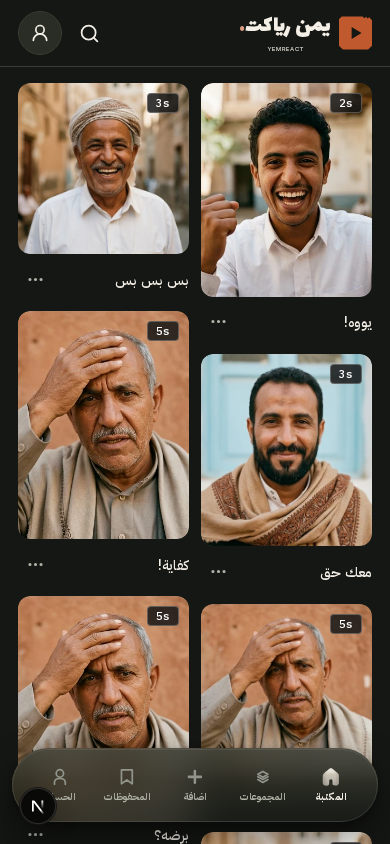
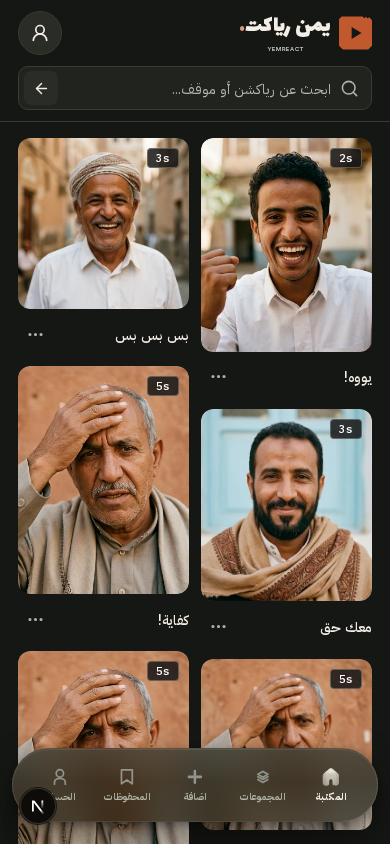
feat(search): DECISION-51 — البحث حالة من المكتبة (?q=) لا صفحة مستقلة
- /search يوجّه إلى /library مع الحفاظ على q (البند الاحتياطي الأول)
- noindex,follow لأي رابط فيه q — حماية النطاق من سيناريو Giphy (البند الثاني)
- DECISION-I10: حقل 44px بعرض 420–480px على الحاسوب، وحقل كامل في هيدر الجوال
  بدل النافذة المنبثقة، والنص «ابحث عن رياكشن أو موقف...» — بلا فلاتر في v1
- P-14: اسم الشخص يدخل نطاق البحث مع الاسم والجملة والوصف والكلمات المفتاحية
- سكربت تحقق آلي verification/decision-51-search.cjs (12/12) وتحديث اختبارات التوجيهات

diff --git a/src/components/Header.tsx b/src/components/Header.tsx
@@ -160,7 +160,7 @@ export function Header({ googleAuthOrigin = '' }: { googleAuthOrigin?: string })
   const app = useApp();
   const [accountPopover, setAccountPopover] = useState(false);
   const [accountSheet, setAccountSheet] = useState(false);
-  const [searchOpen, setSearchOpen] = useState(false);
+  const [searchFocus, setSearchFocus] = useState(false);
   const [query, setQuery] = useState('');
   const [hiddenOnScroll, setHiddenOnScroll] = useState(false);
   const [embedded, setEmbedded] = useState(false);
@@ -173,7 +173,7 @@ export function Header({ googleAuthOrigin = '' }: { googleAuthOrigin?: string })
   useEffect(() => {
     setAccountPopover(false);
     setAccountSheet(false);
-    setSearchOpen(false);
+    setSearchFocus(false);
     setHiddenOnScroll(false);
     const syncQuery = () =>
       setQuery(
@@ -212,7 +212,7 @@ export function Header({ googleAuthOrigin = '' }: { googleAuthOrigin?: string })
     const closeOnResize = () => {
       setAccountPopover(false);
       setAccountSheet(false);
-      setSearchOpen(false);
+      setSearchFocus(false);
       setHiddenOnScroll(false);
     };
     breakpoint.addEventListener('change', closeOnResize);
@@ -231,8 +231,11 @@ export function Header({ googleAuthOrigin = '' }: { googleAuthOrigin?: string })
       if (breakpoint.matches)
         document.querySelector<HTMLInputElement>('#desktop-library-search')?.focus();
       else {
+        // الحقل نفسه داخل الهيدر على الجوال: نُظهر الهيدر إن كان مخفيًا ثم نركّز فيه.
         setHiddenOnScroll(false);
-        setSearchOpen(true);
+        requestAnimationFrame(() =>
+          document.querySelector<HTMLInputElement>('#mobile-library-search')?.focus(),
+        );
       }
     };
     window.addEventListener('keydown', shortcut);
@@ -255,7 +258,7 @@ export function Header({ googleAuthOrigin = '' }: { googleAuthOrigin?: string })
           window.matchMedia('(prefers-reduced-motion: reduce)').matches ||
           app.reduced ||
           accountSheet ||
-          searchOpen ||
+          searchFocus ||
           document.querySelector('dialog[open]')
         ) {
           previous = y;
@@ -276,11 +279,10 @@ export function Header({ googleAuthOrigin = '' }: { googleAuthOrigin?: string })
       window.removeEventListener('scroll', onScroll);
       if (frame) window.cancelAnimationFrame(frame);
     };
-  }, [app.reduced, accountSheet, searchOpen]);
+  }, [app.reduced, accountSheet, searchFocus]);
 
   function submitSearch(event: FormEvent<HTMLFormElement>) {
     event.preventDefault();
-    setSearchOpen(false);
     const term = query.trim();
     router.push(term ? `/library?q=${encodeURIComponent(term)}` : '/library');
   }
@@ -334,7 +336,7 @@ export function Header({ googleAuthOrigin = '' }: { googleAuthOrigin?: string })
               onSubmit={submitSearch}
             >
               <label className="sr-only" htmlFor="desktop-library-search">
-                ابحث في المكتبة
+                ابحث عن رياكشن أو موقف
               </label>
               <input
                 id="desktop-library-search"
@@ -342,26 +344,13 @@ export function Header({ googleAuthOrigin = '' }: { googleAuthOrigin?: string })
                 name="q"
                 value={query}
                 onChange={(event) => setQuery(event.target.value)}
-                placeholder="ابحث في المكتبة"
+                placeholder="ابحث عن رياكشن أو موقف..."
                 autoComplete="off"
               />
-              <button type="submit" aria-label="تنفيذ البحث" title="ابحث في المكتبة">
+              <button type="submit" aria-label="تنفيذ البحث" title="ابحث عن رياكشن أو موقف">
                 <Search size={18} aria-hidden="true" />
               </button>
             </form>
-            <button
-              type="button"
-              className="icon-btn mobile-search-trigger"
-              aria-label="البحث"
-              aria-haspopup="dialog"
-              aria-expanded={searchOpen}
-              onClick={() => {
-                setHiddenOnScroll(false);
-                setSearchOpen(true);
-              }}
-            >
-              <Search size={21} aria-hidden="true" />
-            </button>
             <UploadQuickAction />
             <div
               className="header-account"
@@ -404,6 +393,34 @@ export function Header({ googleAuthOrigin = '' }: { googleAuthOrigin?: string })
             </div>
           </div>
         </div>
+        {/* DECISION-I10: على الجوال الحقل كاملًا داخل الهيدر — بلا نافذة ولا زر مُطلق */}
+        <div className="container header-search-row">
+          <form
+            className="mobile-library-search"
+            role="search"
+            aria-label="بحث في المكتبة"
+            onSubmit={submitSearch}
+          >
+            <label className="sr-only" htmlFor="mobile-library-search">
+              ابحث عن رياكشن أو موقف
+            </label>
+            <Search size={19} aria-hidden="true" />
+            <input
+              id="mobile-library-search"
+              type="search"
+              name="q"
+              value={query}
+              onChange={(event) => setQuery(event.target.value)}
+              onFocus={() => setSearchFocus(true)}
+              onBlur={() => setSearchFocus(false)}
+              placeholder="ابحث عن رياكشن أو موقف..."
+              autoComplete="off"
+            />
+            <button type="submit" aria-label="تنفيذ البحث">
+              <ArrowLeft size={17} aria-hidden="true" />
+            </button>
+          </form>
+        </div>
       </header>
 
       {/* الشريط الزجاجي العائم: المسارات الأربعة روابط، و«الحساب» يفتح قائمة الحساب */}
@@ -415,32 +432,6 @@ export function Header({ googleAuthOrigin = '' }: { googleAuthOrigin?: string })
           googleAuthOrigin={googleAuthOrigin}
           embedded={embedded}
         />
-      </Modal>
-      <Modal open={searchOpen} onClose={() => setSearchOpen(false)} title="البحث" sheet>
-        <form
-          className="mobile-library-search"
-          role="search"
-          aria-label="بحث في المكتبة"
-          onSubmit={submitSearch}
-        >
-          <label htmlFor="mobile-library-search">ابحث في المكتبة</label>
-          <div>
-            <Search size={19} aria-hidden="true" />
-            <input
-              id="mobile-library-search"
-              type="search"
-              name="q"
-              value={query}
-              onChange={(event) => setQuery(event.target.value)}
-              placeholder="اكتب كلمة أو عبارة"
-              autoComplete="off"
-              autoFocus
-            />
-            <button type="submit" className="btn btn-primary">
-              بحث <ArrowLeft size={17} aria-hidden="true" />
-            </button>
-          </div>
-        </form>
       </Modal>
     </>
   );

diff --git a/src/app/navigation.css b/src/app/navigation.css
@@ -26,8 +26,9 @@
 .desktop-library-search {
   display: flex;
   align-items: center;
-  height: 42px;
-  width: clamp(170px, 18vw, 248px);
+  /* DECISION-I10: ارتفاع 44px وعرض 420–480px */
+  height: 44px;
+  width: clamp(420px, 30vw, 480px);
   min-width: 0;
   padding-inline: 12px 4px;
   background: var(--surface);
@@ -86,7 +87,8 @@
   background: color-mix(in srgb, var(--accent-text) 87%, black);
   box-shadow: 0 5px 15px color-mix(in srgb, var(--accent) 22%, transparent);
 }
-.mobile-search-trigger {
+/* DECISION-I10: حقل كامل في الهيدر على الجوال — يظهر ضمن الهيدر لا في نافذة */
+.header-search-row {
   display: none;
 }
 .header-account {
@@ -236,27 +238,28 @@
   border-radius: 0 0 9px 9px;
 }
 
-.mobile-library-search label {
-  display: block;
-  margin-bottom: 10px;
-  font-size: 13px;
-  font-weight: 600;
-}
-.mobile-library-search > div {
+/* DECISION-I10: الحقل كامل العرض داخل الهيدر على الجوال */
+.mobile-library-search {
   display: flex;
   align-items: center;
   gap: 9px;
-  min-height: 53px;
-  padding: 5px 12px 5px 5px;
+  height: 44px;
+  width: 100%;
+  padding-inline: 12px 5px;
   border: 1px solid var(--line);
   border-radius: 10px;
-  background: var(--bg);
+  background: var(--surface);
+  transition:
+    border-color var(--motion-micro) var(--ease-standard),
+    box-shadow var(--motion-micro) var(--ease-standard);
 }
-.mobile-library-search > div:focus-within {
+.mobile-library-search:focus-within {
   border-color: var(--accent);
+  box-shadow: 0 0 0 3px color-mix(in srgb, var(--accent) 15%, transparent);
 }
-.mobile-library-search > div > svg {
+.mobile-library-search > svg {
   color: var(--muted);
+  flex: none;
 }
 .mobile-library-search input {
   flex: 1;
@@ -267,10 +270,15 @@
   font-size: 14px;
   outline: none;
 }
-.mobile-library-search .btn {
-  min-height: 42px;
-  padding: 8px 12px;
-  font-size: 12px;
+.mobile-library-search button {
+  display: grid;
+  place-items: center;
+  width: 34px;
+  height: 34px;
+  flex: none;
+  border-radius: 7px;
+  background: var(--soft);
+  color: var(--ink);
 }
 @media (max-width: 1023px) {
   .site-header .desktop-nav,
@@ -289,11 +297,9 @@
   .site-header .header-actions {
     gap: 5px;
   }
-  .site-header .mobile-search-trigger {
-    display: inline-grid;
-    width: 44px;
-    height: 44px;
-    place-items: center;
+  .site-header .header-search-row {
+    display: block;
+    padding-bottom: 11px;
   }
   .site-header {
     transition: transform 250ms var(--ease-standard);

diff --git a/src/app/library/page.tsx b/src/app/library/page.tsx
@@ -1,11 +1,24 @@
 import { Suspense } from 'react';
+import type { Metadata } from 'next';
 import LibraryFeed from '@/features/LibraryFeed';
 import Loading from './loading';
-export const metadata = {
-  alternates: { canonical: '/library' },
-  title: 'المكتبة — رياكشنات يمنية',
-  description: 'تصفّح مكتبة رياكشنات يمنية من الصور والفيديوهات في عرض بصري بسيط.',
-};
+
+/** DECISION-5.1: البحث حالة من المكتبة عبر ?q= — لا صفحة مستقلة. */
+export async function generateMetadata({
+  searchParams,
+}: {
+  searchParams: Promise<{ q?: string | string[] }>;
+}): Promise<Metadata> {
+  const { q = '' } = await searchParams;
+  const query = (Array.isArray(q) ? q[0] : (q ?? '')).trim();
+  return {
+    alternates: { canonical: '/library' },
+    title: 'المكتبة — رياكشنات يمنية',
+    description: 'تصفّح مكتبة رياكشنات يمنية من الصور والفيديوهات في عرض بصري بسيط.',
+    // نتائج البحث الداخلية لا تُفهرس (درس Giphy) — لكن روابطها تبقى قابلة للمتابعة.
+    ...(query ? { robots: { index: false, follow: true } } : {}),
+  };
+}
 export default function Page() {
   return (
     <Suspense fallback={<Loading />}>

diff --git a/src/lib/reactions.ts b/src/lib/reactions.ts
@@ -80,7 +80,10 @@ export function filterReactions(
         (!cat || r.category === cat) &&
         (verifiedMediaType(r) !== 'video' || r.duration == null || r.duration <= maxDuration) &&
         words.every((w) =>
-          normalizeArabic([r.caption, r.situation, r.code, ...r.keywords].join(' ')).includes(w),
+          // P-14: الاسم · الجملة · وصف المشهد · اسم الشخص · الكلام المضمن (الكلمات المفتاحية)
+          normalizeArabic(
+            [r.caption, r.situation, r.code, r.characterName ?? '', ...r.keywords].join(' '),
+          ).includes(w),
         ),
     )
     .sort((a, b) =>

diff --git a/next.config.ts b/next.config.ts
@@ -9,9 +9,11 @@ const config: NextConfig = {
   images: { unoptimized: true },
   async redirects() {
     // One canonical entry: /library. Legacy /about fragments still resolve through /help.
+    // DECISION-5.1: البحث حالة من المكتبة (?q=) — مسار /search قديم يوجّه إليها ويحافظ على q.
     return [
       { source: '/', destination: '/library', permanent: true },
       { source: '/about', destination: '/help', permanent: true },
+      { source: '/search', destination: '/library', permanent: true },
     ];
   },
   async headers() {
